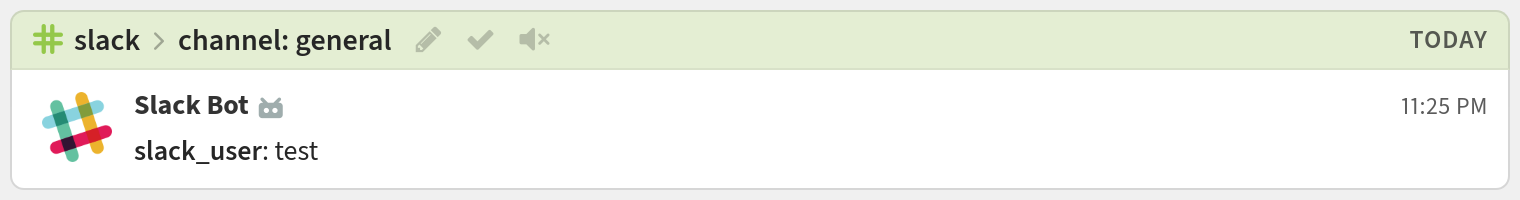
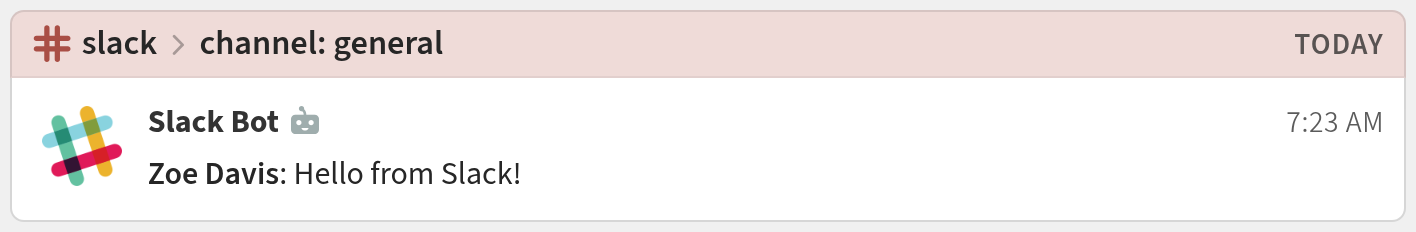
slack_integration: Avoid showing sender username.
The "name" field included in the users.info API response is actually the
senders Slack username, which may be the prefix of their email address.

This updates the integration to use the "real_name" field instead, which
is the senders full name.

Fixes #36090.

diff --git a/zerver/webhooks/slack/tests.py b/zerver/webhooks/slack/tests.py
@@ -12,7 +12,7 @@ from zerver.webhooks.slack.view import INVALID_SLACK_TOKEN_MESSAGE
 EXPECTED_TOPIC = "Message from Slack"
 
 MESSAGE_WITH_NORMAL_TEXT = "Hello, this is a normal text message"
-USER = "supersecretemail"
+USER = "John Doe"
 CHANNEL = "general"
 EXPECTED_MESSAGE = "**{user}**: {message}"
 TOPIC_WITH_CHANNEL = "channel: {channel}"
@@ -166,9 +166,7 @@ class SlackWebhookTests(WebhookTestCase):
 
     @mock_slack_api_calls
     def test_message_with_channel_and_user_mentions(self) -> None:
-        message_body = (
-            "@**supersecretemail** **#general** message with both channel and user mentions"
-        )
+        message_body = "@**John Doe** **#general** message with both channel and user mentions"
         expected_message = EXPECTED_MESSAGE.format(user=USER, message=message_body)
         self.check_webhook(
             "message_with_channel_and_user_mentions",
@@ -237,7 +235,9 @@ class SlackWebhookTests(WebhookTestCase):
 
     @mock_slack_api_calls
     def test_message_with_user_mentions(self) -> None:
-        message_body = "@**supersecretemail** @**supersecretemail** @**supersecretemail** hello, this is a message with mentions"
+        message_body = (
+            "@**John Doe** @**John Doe** @**John Doe** hello, this is a message with mentions"
+        )
         expected_message = EXPECTED_MESSAGE.format(user=USER, message=message_body)
         self.check_webhook(
             "message_with_user_mentions",
@@ -308,7 +308,7 @@ class SlackWebhookTests(WebhookTestCase):
 
     @mock_slack_api_calls
     def test_message_with_complex_formatted_mentions(self) -> None:
-        message_body = "@**supersecretemail** **#general** ~~***@**all*****~~"
+        message_body = "@**John Doe** **#general** ~~***@**all*****~~"
         expected_message = EXPECTED_MESSAGE.format(user=USER, message=message_body)
         self.check_webhook(
             "message_with_complex_formatted_mentions",

diff --git a/zerver/webhooks/slack/view.py b/zerver/webhooks/slack/view.py
@@ -64,7 +64,7 @@ def get_slack_sender_name(user_id: str, token: str) -> str:
         token=token,
         user=user_id,
     )
-    return slack_user_data["name"]
+    return slack_user_data["real_name"]
 
 
 def convert_slack_user_and_channel_mentions(text: str, app_token: str) -> str:
